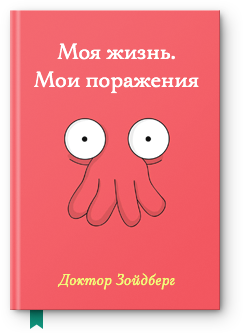
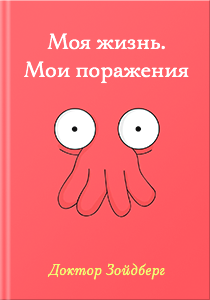
поправила mini-books

diff --git a/source/index.html b/source/index.html
@@ -72,42 +72,42 @@
 				<h1 class="section__title">Самое незаметное издательство</h1>
 
 				<div class="mini-book">
-					<img src="img/book1.png" width="" height="" alt="">
+					<a href="#" class="mini-book__link"><img class="mini-book__1" src="img/book1.png" width="" height="" alt=""><div class="mini-book__flag"></div></a>
 					<p class="mini-book__text"><a href="#">Краткая история почти ничего.</a> Эта книга &mdash; недоразумение.</p>
 				</div>
 
 				<div class="mini-book">
-					<img class="mini-book__without-ribbin" src="img/book2.png" width="" height="" alt="">
+					<a href="#" class="mini-book__link"><img class="mini-book__without-ribbin" src="img/book2.png" width="" height="" alt=""></a>
 					<p class="mini-book__text"><a href="#">Все знания о вселенной</a> компактно упакованы на одной странице.</p>
 				</div>
 
 				<div class="mini-book">
-					<img src="img/book3.png" width="" height="" alt="">
+					<a href="#" class="mini-book__link"><img src="img/book3.png" width="" height="" alt=""><div class="mini-book__flag mini-book__flag--grey"></div></a>
 					<p class="mini-book__text">Автор подробно, всего двумя фразами, <a href="#">объясняет все.</a></p>
 				</div>
 
 				<div class="mini-book">
-					<img class="mini-book__robot" src="img/book4.png" width="" height="" alt="">
+					<a href="#" class="mini-book__link"><img class="mini-book__robot" src="img/book4.png" width="" height="" alt=""><div class="mini-book__flag mini-book__flag--red"></div></a>
 					<p class="mini-book__text">Двоичные <a href="#">размышления о жизни после пресса.</a></p>
 				</div>
 
 				<div class="mini-book">
-					<img src="img/book5.png" width="" height="" alt="">
+					<a href="#" class="mini-book__link"><img src="img/book5.png" width="" height="" alt=""><div class="mini-book__flag mini-book__flag--grey"></div></a>
 					<p class="mini-book__text">Прозрачные тексты на мутные темы.</p>
 				</div>
 
 				<div class="mini-book">
-					<img src="img/book6.png" width="" height="" alt="">
+					<a href="#" class="mini-book__link"><img src="img/book6.png" width="" height="" alt=""><div class="mini-book__flag"></div></a>
 					<p class="mini-book__text">О чем спросить первого встречного мутанта с другой планеты Руководство по умиранию.</p>
 				</div>
 
 				<div class="mini-book">
-					<img src="img/book7.png" width="" height="" alt="">
+					<a href="#" class="mini-book__link"><img src="img/book7.png" width="" height="" alt=""><div class="mini-book__flag mini-book__flag--grey"></div></a>
 					<p class="mini-book__text">Технические чертежи и детали самого лучшего робота на свете.</p>
 				</div>
 
 				<div class="mini-book">
-					<img src="img/book8.png" width="" height="" alt="">
+					<a href="#" class="mini-book__link"><img src="img/book8.png" width="" height="" alt=""><div class="mini-book__flag mini-book__flag--red"></div></a>
 					<p class="mini-book__text">Коротко и ясно. Кому не ясно &mdash; Люрр объяснит. Коротко.</p>
 				</div>
 

diff --git a/source/less/components/mini-book.less b/source/less/components/mini-book.less
@@ -1,34 +1,80 @@
 .mini-book {
 
+	&__link {
+		display: block;
+		width: 210px;
+		margin: 0 auto;
+		position: relative;
+		padding-bottom: 30px;
+	}
+
+	&__flag {
+ 		content: "";
+ 		display: block;
+ 		position: absolute;
+ 		width: 14px;
+		height: 23px;
+ 		background-color: @flag-green;
+ 	    top: 300px;
+ 	    left: 25px;
+ 		z-index: -1;
+
+ 		&:after {
+ 			content: "";
+ 			display: block;
+ 			position: absolute;
+ 			left: 0;
+ 			bottom: 0;
+ 			border: 7px solid transparent;
+ 			border-bottom: 8px solid #ffffff;
+ 		}	
+
+ 		&--grey {
+ 			background-color: @flag-grey;
+ 		}
+ 		&--red {
+ 			background-color: @red;
+ 		}
+ 	}
+
+	img  {
+		background-color: rgb(250, 244, 237);
+		box-shadow:  6.528px 6.828px 26px -6px rgba(0, 0, 0, 0.735);
+	}
+
 	&__text {
 	    font-size: 19px;
 	    color: #4d4d4d;
 	    margin-top: -3px;
 	    line-height: 24px;
 	    margin-bottom: 50px;
-	    padding: 0 13px;
+	    padding: 0 10px;
 
 		a {
 			color: @blue;
-			text-decoration: underline;
-			display: inline-block;
+			//text-decoration: underline;
+			//display: inline-block;
 			// border-bottom: 1px solid @blue;
-			height: 21px;
+			//height: 21px;
 
 			&:hover {
+				color: rgb(229, 25, 7);
+			}
+
+			&:active {
 				color: rgb(229, 25, 7);
 			}
 		}
 	}
 
 	&__without-ribbin {
-		margin-top: 6px;
-		margin-bottom: 15px;
+		//margin-bottom: 30px;
+		box-shadow: 2.828px 2.828px 8px 0px rgba(0, 0, 0, 0.435) !important;
 	}
 
-	&__robot {
-		margin-top: -7px;
-	}
+	// &__robot {
+	// 	margin-top: -7px;
+	// }
 
 	@media @descktop {
 		display: inline-block;
@@ -54,6 +100,16 @@
 	margin-bottom: 75px;
 	width: 275px;
 	height: 41px;
+
+	&:hover {
+		color: rgb(229, 25, 7);
+		border-color: rgb(229, 25, 7);
+	}
+
+	&:active {
+		color: rgb(229, 25, 7);
+		border-color: rgb(229, 25, 7);
+	}
 
 	@media @descktop {
 		margin-top: 20px;

diff --git a/source/less/components/btn.less b/source/less/components/btn.less
@@ -11,12 +11,28 @@
 		color: @white;
 		font-size: 32.6px;
 		text-decoration: none;
-		background-image: -moz-linear-gradient( 90deg, rgb(97,60,99) 0%, rgb(133,89,135) 100%);
-		background-image: -webkit-linear-gradient( 90deg, rgb(97,60,99) 0%, rgb(133,89,135) 100%);
-		background-image: linear-gradient( 90deg, rgb(97,60,99) 0%, rgb(133,89,135) 100%);
+		background-image: -moz-linear-gradient( 0deg, rgb(97,60,99) 0%, rgb(133,89,135) 100%);
+		background-image: -webkit-linear-gradient( 0deg, rgb(97,60,99) 0%, rgb(133,89,135) 100%);
+		background-image: -ms-linear-gradient( 0deg, rgb(97,60,99) 0%, rgb(133,89,135) 100%);
+		background-image: linear-gradient( 0deg, rgb(97,60,99) 0%, rgb(133,89,135) 100%);
 		border-radius: 12px;
 		box-shadow: 0px 20px 40px 0px rgba(56, 37, 57, 0.392);
 		margin-bottom: 26px;
+
+		&:hover {
+			background-image: -moz-linear-gradient( 0deg, rgb(73,39,75) 0%, rgb(194,141,197) 100%);
+			background-image: -webkit-linear-gradient( 0deg, rgb(73,39,75) 0%, rgb(194,141,197) 100%);
+			background-image: -ms-linear-gradient( 0deg, rgb(73,39,75) 0%, rgb(194,141,197) 100%);
+			background-image: linear-gradient( 0deg, rgb(73,39,75) 0%, rgb(194,141,197) 100%);
+		}
+
+		&:active {
+			background-image: -moz-linear-gradient( 0deg, rgb(98,58,100) 0%, rgb(134,88,136) 100%);
+			background-image: -webkit-linear-gradient( 0deg, rgb(98,58,100) 0%, rgb(134,88,136) 100%);
+			background-image: -ms-linear-gradient( 0deg, rgb(98,58,100) 0%, rgb(134,88,136) 100%);
+			background-image: linear-gradient( 0deg, rgb(98,58,100) 0%, rgb(134,88,136) 100%);
+			box-shadow: 0px 5px 10px 0px rgba(56, 37, 57, 0.392);
+		}
 
 		@media @tablet {
 			max-width: 435px;

diff --git a/source/less/_variables.less b/source/less/_variables.less
@@ -11,6 +11,8 @@
 @purple2: #643b66;
 
 @red: #e94d55;
+@flag-green: #009079;
+@flag-grey: #8d8d8c;
 
 
 
